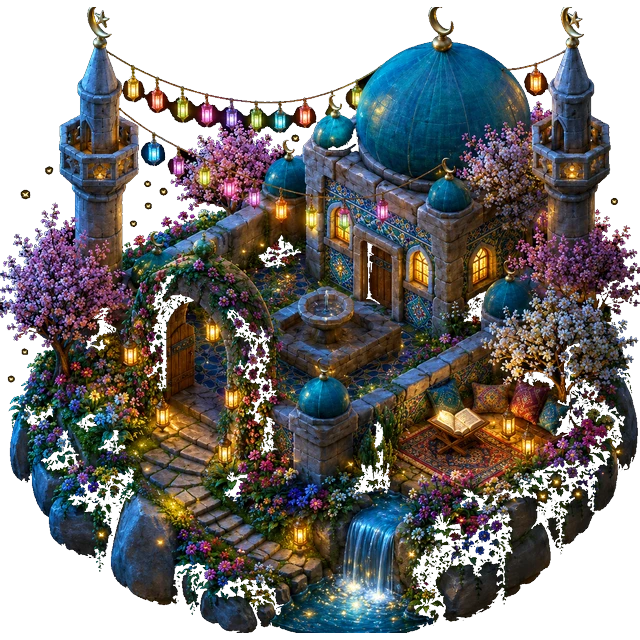
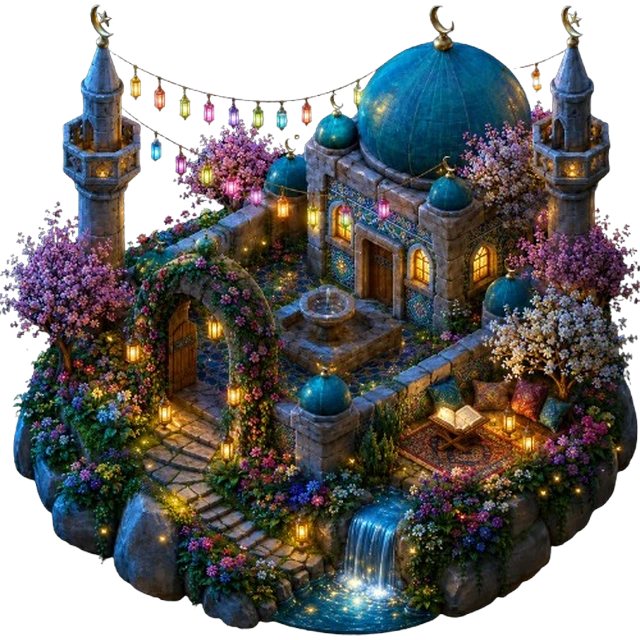
revert: keep the daytime sky, swap in the supplied night island
Darkening the whole screen for the last two garden stages was the wrong
call. The sky stays as it always was, and the final stage now uses the
cut-out the user supplied.

diff --git a/src/app/mosque.tsx b/src/app/mosque.tsx
@@ -48,11 +48,6 @@ export default function Mosque() {
   const inGarden = garden > 0;
 
   const progress = inGarden ? garden / GARDEN_STAGE_COUNT : built / STAGES;
-  // Son iki bahçe aşaması akşam/gece — ekranın tamamı da onlarla birlikte kararır,
-  // yoksa kandilli gece adası parlak mavi gökyüzünde yapay duruyor.
-  const night = garden >= 7 ? 0.82 : garden === 6 ? 0.5 : 0;
-  const isNight = night > 0;
-  const titleColor = isNight ? "#FFE3A3" : "#0E5FC2";
   const gardenDone = garden >= GARDEN_STAGE_COUNT;
 
   // Pırıl'ın balonu: ilerlemeye göre teşvik (artık fener/çeşme görevi yok — cami kendi büyür)
@@ -108,7 +103,7 @@ export default function Mosque() {
   }));
 
   return (
-    <GradientBg variant="skyWarm" night={night}>
+    <GradientBg variant="skyWarm">
       <View className="flex-1 py-4">
         {/* Başlık: cami adı (oyun-tarzı) + düzenle */}
         {editing ? (
@@ -139,8 +134,8 @@ export default function Mosque() {
             style={{
               fontFamily: "Fredoka_700Bold",
               fontSize: 30,
-              color: titleColor,
-              textShadowColor: isNight ? "rgba(4,10,30,0.9)" : "rgba(255,255,255,0.9)",
+              color: "#0E5FC2",
+              textShadowColor: "rgba(255,255,255,0.9)",
               textShadowOffset: { width: 0, height: 1 },
               textShadowRadius: 4,
             }}
@@ -150,16 +145,10 @@ export default function Mosque() {
         )}
 
         <View
-          className="mt-2 self-start rounded-2xl px-4 py-2"
-          style={{
-            backgroundColor: isNight ? "rgba(12,26,66,0.78)" : "rgba(255,255,255,0.85)",
-            shadowColor: "#1462B5",
-            shadowOpacity: 0.1,
-            shadowRadius: 5,
-            shadowOffset: { width: 0, height: 3 },
-          }}
+          className="mt-2 self-start rounded-2xl bg-white/85 px-4 py-2"
+          style={{ shadowColor: "#1462B5", shadowOpacity: 0.1, shadowRadius: 5, shadowOffset: { width: 0, height: 3 } }}
         >
-          <Text style={{ fontFamily: "Nunito_700Bold", fontSize: 15, color: isNight ? "#D8E7FF" : "#34618C" }}>
+          <Text style={{ fontFamily: "Nunito_700Bold", fontSize: 15, color: "#34618C" }}>
             {t(inGarden ? "mosque.gardenSubtitle" : "mosque.subtitle")}
           </Text>
         </View>
@@ -196,25 +185,22 @@ export default function Mosque() {
         </View>
 
         {/* İlerleme */}
-        <View
-          className="mx-1 h-5 overflow-hidden rounded-full"
-          style={{ backgroundColor: isNight ? "rgba(10,22,60,0.7)" : "rgba(255,255,255,0.7)" }}
-        >
+        <View className="mx-1 h-5 overflow-hidden rounded-full bg-white/70">
           <View className="h-full rounded-full bg-accent" style={{ width: `${Math.round(progress * 100)}%` }} />
         </View>
-        <Text style={{ fontFamily: "Fredoka_700Bold", fontSize: 16, color: isNight ? "#EAF2FF" : "#4A5663", textAlign: "center", marginTop: 8 }}>
+        <Text style={{ fontFamily: "Fredoka_700Bold", fontSize: 16, color: "#4A5663", textAlign: "center", marginTop: 8 }}>
           {inGarden
             ? t("mosque.gardenParts", { built: garden, total: GARDEN_STAGE_COUNT })
             : t("mosque.parts", { built, total: STAGES })}
         </Text>
-        <Text style={{ fontFamily: "Nunito_700Bold", fontSize: 13, color: isNight ? "#9FB6E4" : "#7A8593", textAlign: "center", marginTop: 2 }}>
+        <Text style={{ fontFamily: "Nunito_700Bold", fontSize: 13, color: "#7A8593", textAlign: "center", marginTop: 2 }}>
           {t("mosque.lettersLearned", { n: completed, total: LETTERS.length })}
         </Text>
         {/* En iyi istikamet zinciri kupası */}
         {bestChainEver > 0 && (
           <View className="mt-2 flex-row items-center justify-center" style={{ gap: 6 }}>
             <Crescent size={18} color={accentColor} />
-            <Text style={{ fontFamily: "Fredoka_700Bold", fontSize: 14, color: isNight ? "#FFD98A" : "#0E5FC2" }}>
+            <Text style={{ fontFamily: "Fredoka_700Bold", fontSize: 14, color: "#0E5FC2" }}>
               {t("mosque.bestChain", { n: bestChainEver })}
             </Text>
           </View>

diff --git a/src/components/ui/GradientBg.tsx b/src/components/ui/GradientBg.tsx
@@ -1,5 +1,4 @@
 import { Image } from "expo-image";
-import { LinearGradient } from "expo-linear-gradient";
 import type { ReactNode } from "react";
 import { StyleSheet, View } from "react-native";
 import { SafeAreaView } from "react-native-safe-area-context";
@@ -12,32 +11,19 @@ import { images } from "@/lib/images";
  */
 export function GradientBg({
   children,
-  night = 0,
 }: {
   children: ReactNode;
   /** geriye dönük uyum; artık tek illüstrasyon zemin kullanılıyor */
   variant?: "sky" | "skyWarm";
-  /**
-   * 0 = gündüz. 0-1 arası akşam/gece koyuluğu.
-   * Bahçenin son iki aşaması (akşam kandilleri / yıldızlı gece) gündüz gökyüzünde
-   * yapayık duruyordu — ekranın tamamı da onunla birlikte kararıyor.
-   */
-  night?: number;
 }) {
   return (
-    <View style={{ flex: 1, backgroundColor: night > 0 ? "#0A1740" : "#BFE3FF" }}>
+    <View style={{ flex: 1, backgroundColor: "#BFE3FF" }}>
       <Image
         source={images.bgSky}
         style={StyleSheet.absoluteFill}
         contentFit="cover"
         cachePolicy="memory-disk"
       />
-      {night > 0 && (
-        <LinearGradient
-          colors={["#0A1740", "#132A63", "#2A3F7A"]}
-          style={[StyleSheet.absoluteFill, { opacity: night }]}
-        />
-      )}
       <SafeAreaView style={{ flex: 1, paddingHorizontal: 18 }}>{children}</SafeAreaView>
     </View>
   );
